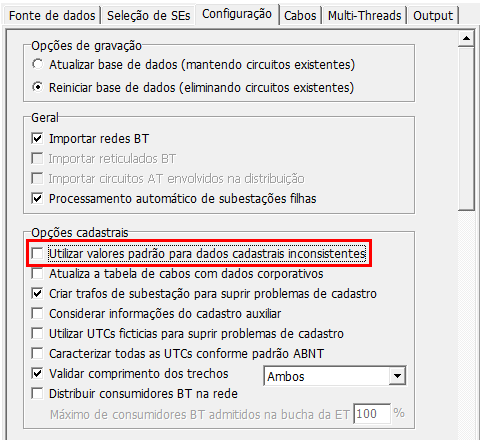
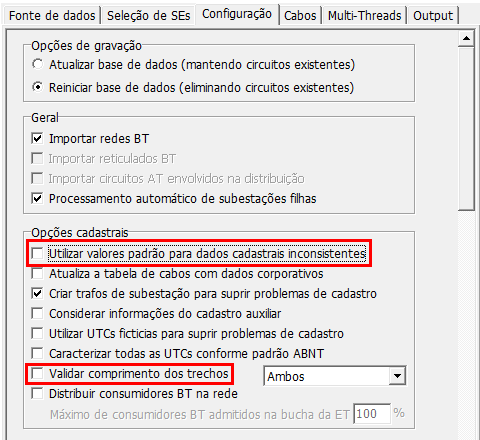
Corrige lista de opções para desmarcar no importador
Faltou listar mais algumas opções de tratamento realizados pelo
importador nos dados da rede que não devem ser feitos para não
prejudicar a análise do BIAT.

Changed region(s): [[0.0312, 0.8273, 0.5, 0.8864]]

diff --git a/docs/source/conf.py b/docs/source/conf.py
@@ -21,7 +21,7 @@ project = 'BIAT'
 copyright = '2020, Daimon Engenharia'
 author = 'Daimon Engenharia'
 version = '1.1'
-release = '1.1.3a1'
+release = '1.1.5'
 
 # -- General configuration ---------------------------------------------------
 

diff --git a/docs/source/banco.rst b/docs/source/banco.rst
@@ -28,12 +28,25 @@ deles pelo BIAT. Portanto, para evitar esse conflito, devem ser desmarcadas as
 seguintes opções na aba Configuração do importador:
 
 - *Utilizar valores padrão para dados cadastrais inconsistentes*
+- *Validar comprimento dos trechos*
 
 .. image:: img/importador_checkCadZero.png
 
+- *Calcula demanda*
 - *Validar e corrigir fases BT das UTCs e dos Consumidores BT e IP*
+- *Redefinir fases dos consumidores BT*
 
 .. image:: img/importador_checkFasesBT.png
+
+- *Utilizar as coordenadas mais próximas para os cons BT e IP*
+- *Tratar elementos MT isolados*
+- *Tratar elementos BT isolados*
+- *Excluir barras MT isoladas e sem equipamentos*
+- *Simplificação topológica de trechos MT*
+- *Simplificação topológica de trechos BT*
+- *Eliminar redes particulares*
+
+.. image:: img/importador_topo.png
 
 Na aba *Cabos*, selecionar as opções *Sem tratamento de cabos* para cabos MT,
 cabos BT e ramais de ligação.
